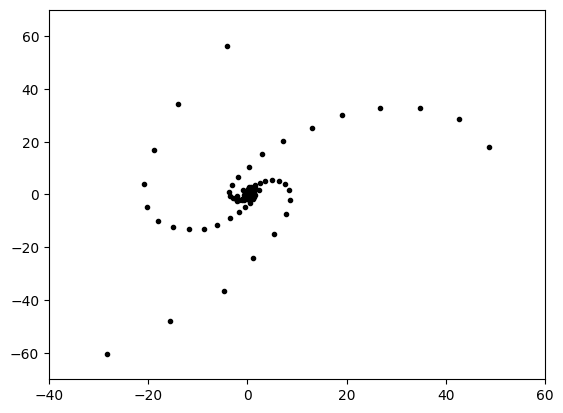
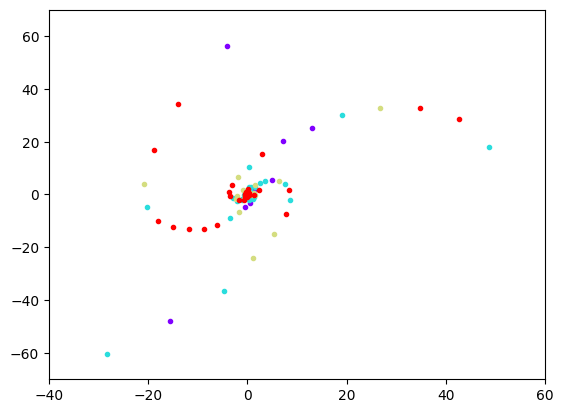
ran

diff --git a/src/rl_pipeline/ska_env.py b/src/rl_pipeline/ska_env.py
@@ -139,6 +139,9 @@ class InterferometerEnv(AECEnv):
         self.hists = [self.hists[i] / np.sum(self.hists[i]) for i in range(len(self.hists))] # Normalise histograms
 
         self.calculate_rewards() # Updates self.rewards
+        for i in range(self.agent_num):
+            wandb.log({'Player {} Reward'.format(i): self.rewards[self.agents[i]]})
+            
         #wandb.log(self.rewards)
 
         # observe the current state
@@ -165,7 +168,7 @@ class InterferometerEnv(AECEnv):
         for i in range(self.num_agents):
             for n in range(self.num_nodes):
                 if self.alloc[n] == i:
-                    plt.plot(self.coordinates[n, 0], self.coordinates[n, 1], '.', color='k',#colours[i], 
+                    plt.plot(self.coordinates[n, 0], self.coordinates[n, 1], '.', color=colours[i], 
                                 label='Agent {}'.format(i+1))
                     
         #plt.legend()
